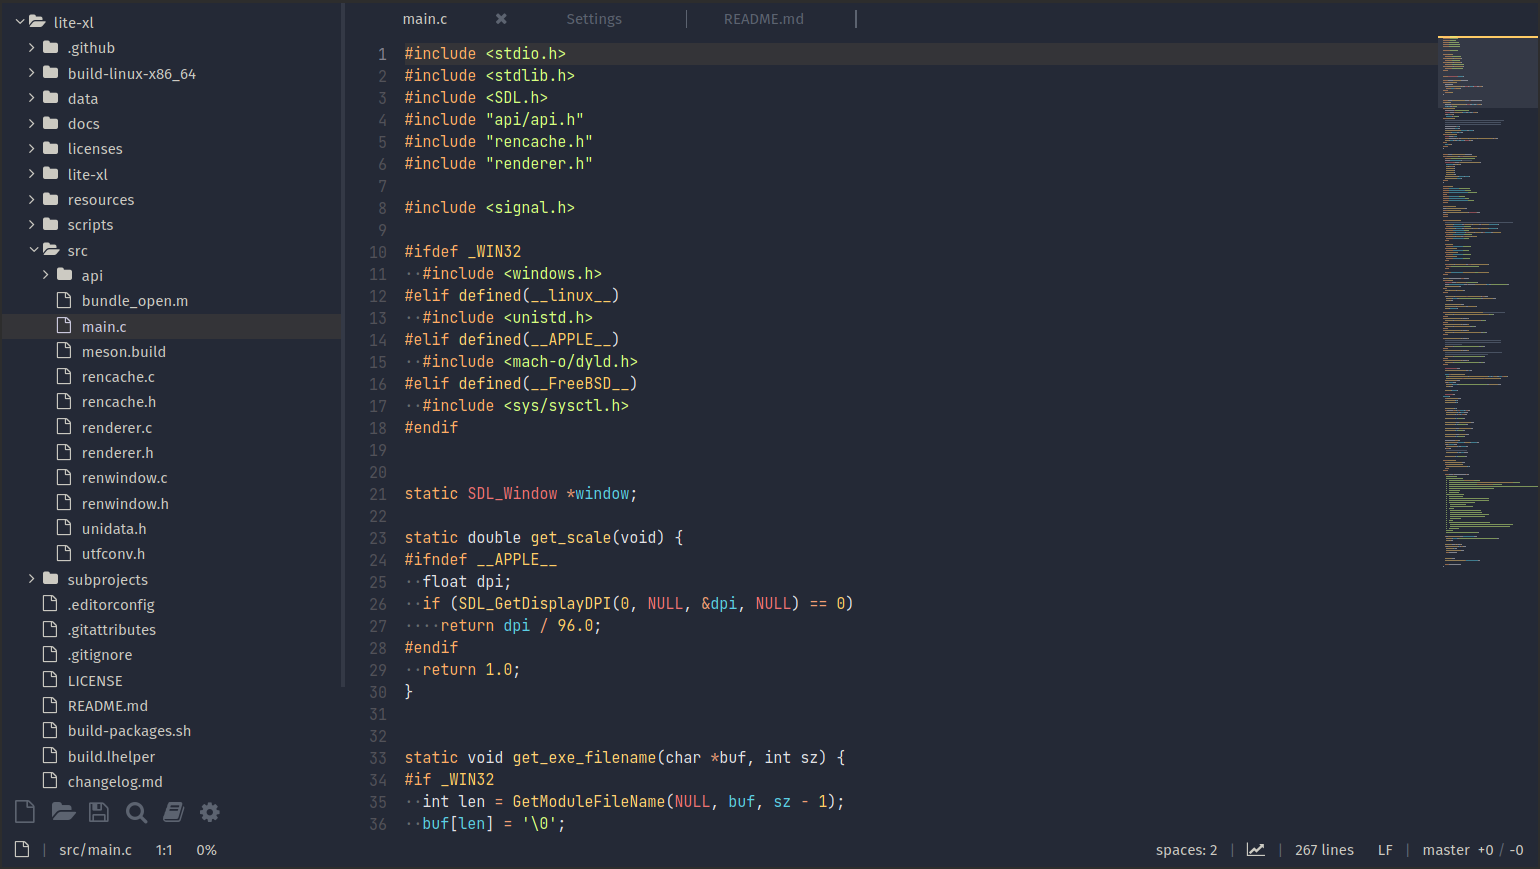
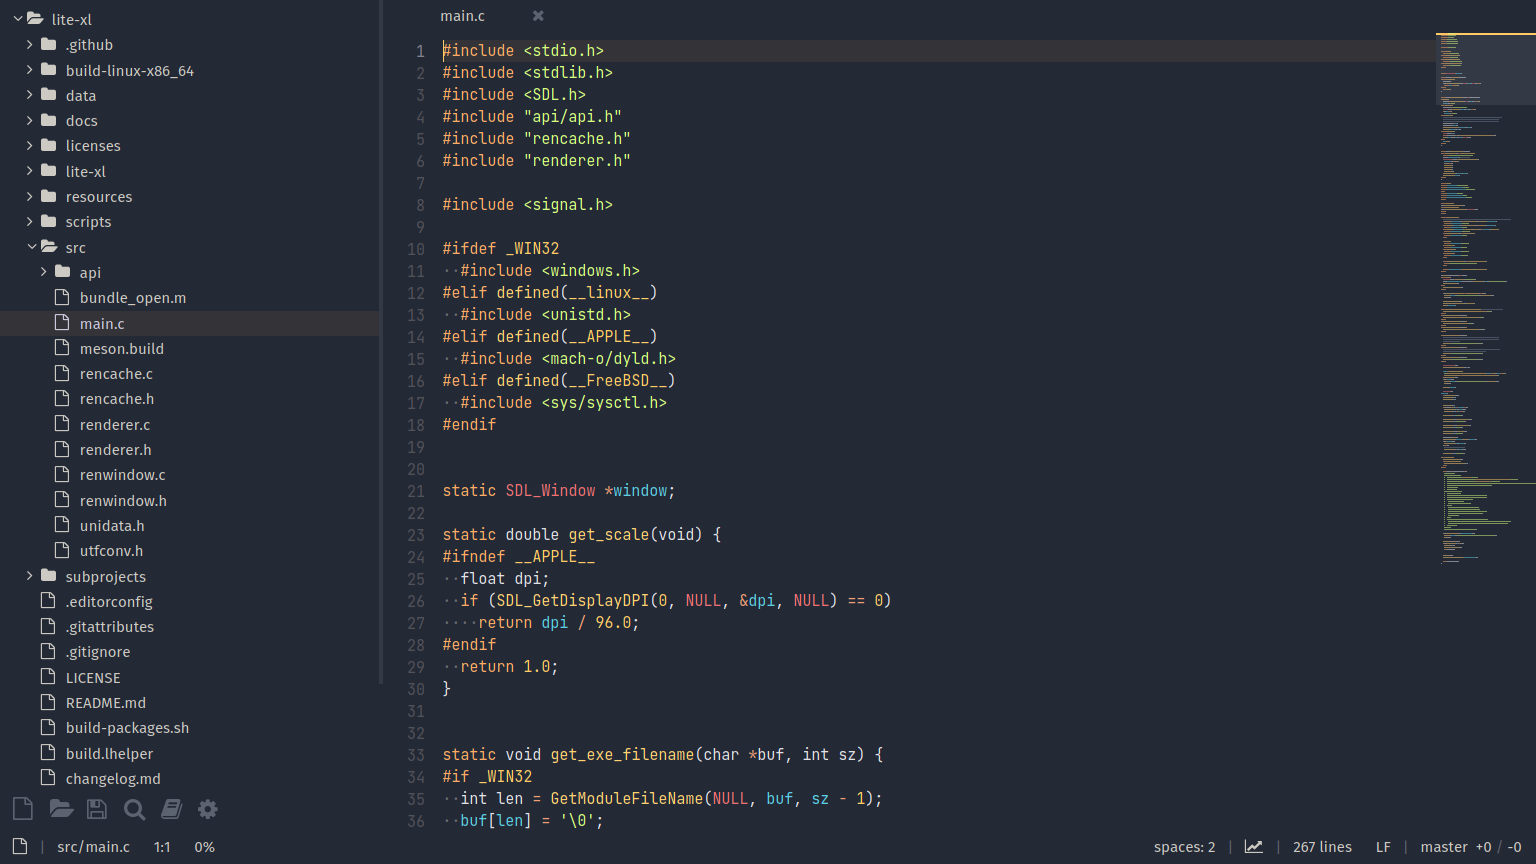
add ayu dark theme

diff --git a/README.md b/README.md
@@ -5,7 +5,7 @@ A port of the beautiful [dempfi's Ayu Theme](https://github.com/dempfi/ayu) for 
 > `ayu` is a simple theme with bright colors and comes in three versions — *dark*, *mirage* and *light* for all day long comfortable work.
 
 ## Warning
-**This theme is still under development and currently only covers Ayu Mirage version.**
+**This theme is still under development and currently only covers Dark and Mirage version.**
 
 ## Instalation
 Clone this repository to your local directory, then copy the contents of `colors` directory to `LITE_XL_CONFIG_DIR/colors` (in case of linux, this usually translates to `~/.config/lite-xl/colors`)
@@ -19,3 +19,6 @@ $ cp colors/* ~/.config/lite-xl/colors
 ## Preview
 ### Ayu Mirage
 ![ayu-mirage](./images/mirage.png)
+
+### Ayu Dark
+![ayu-dark](./images/dark.png)
